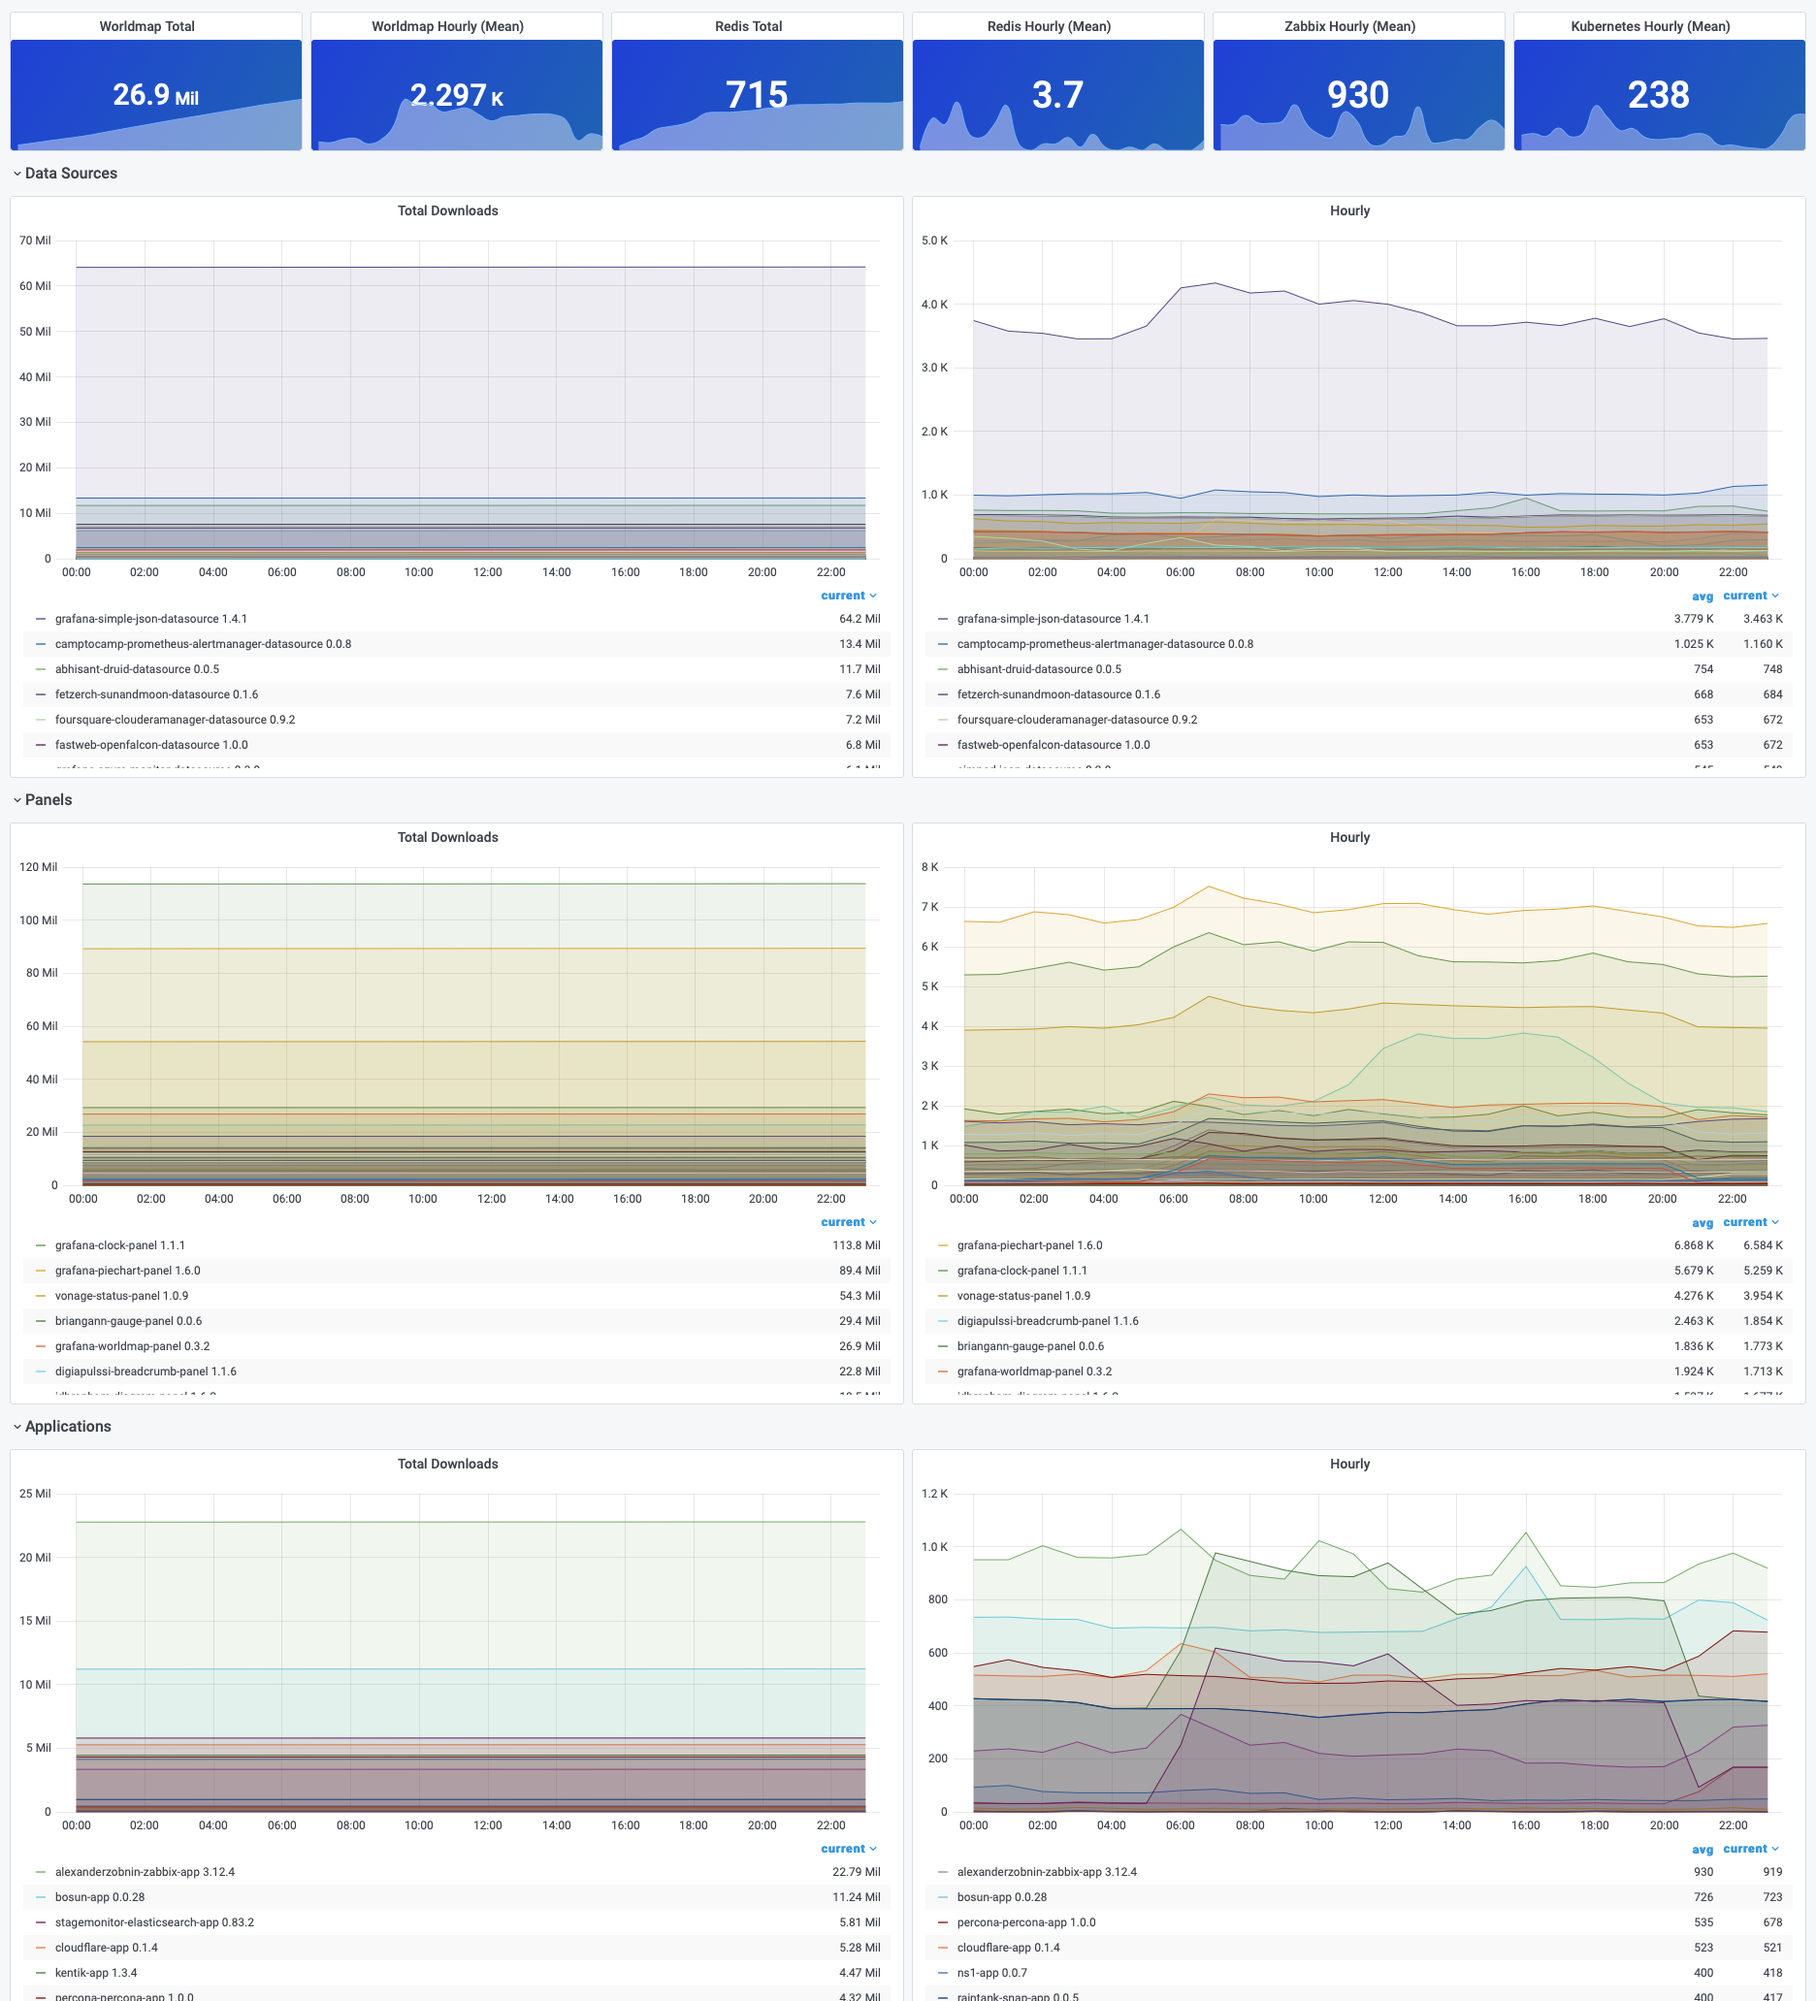
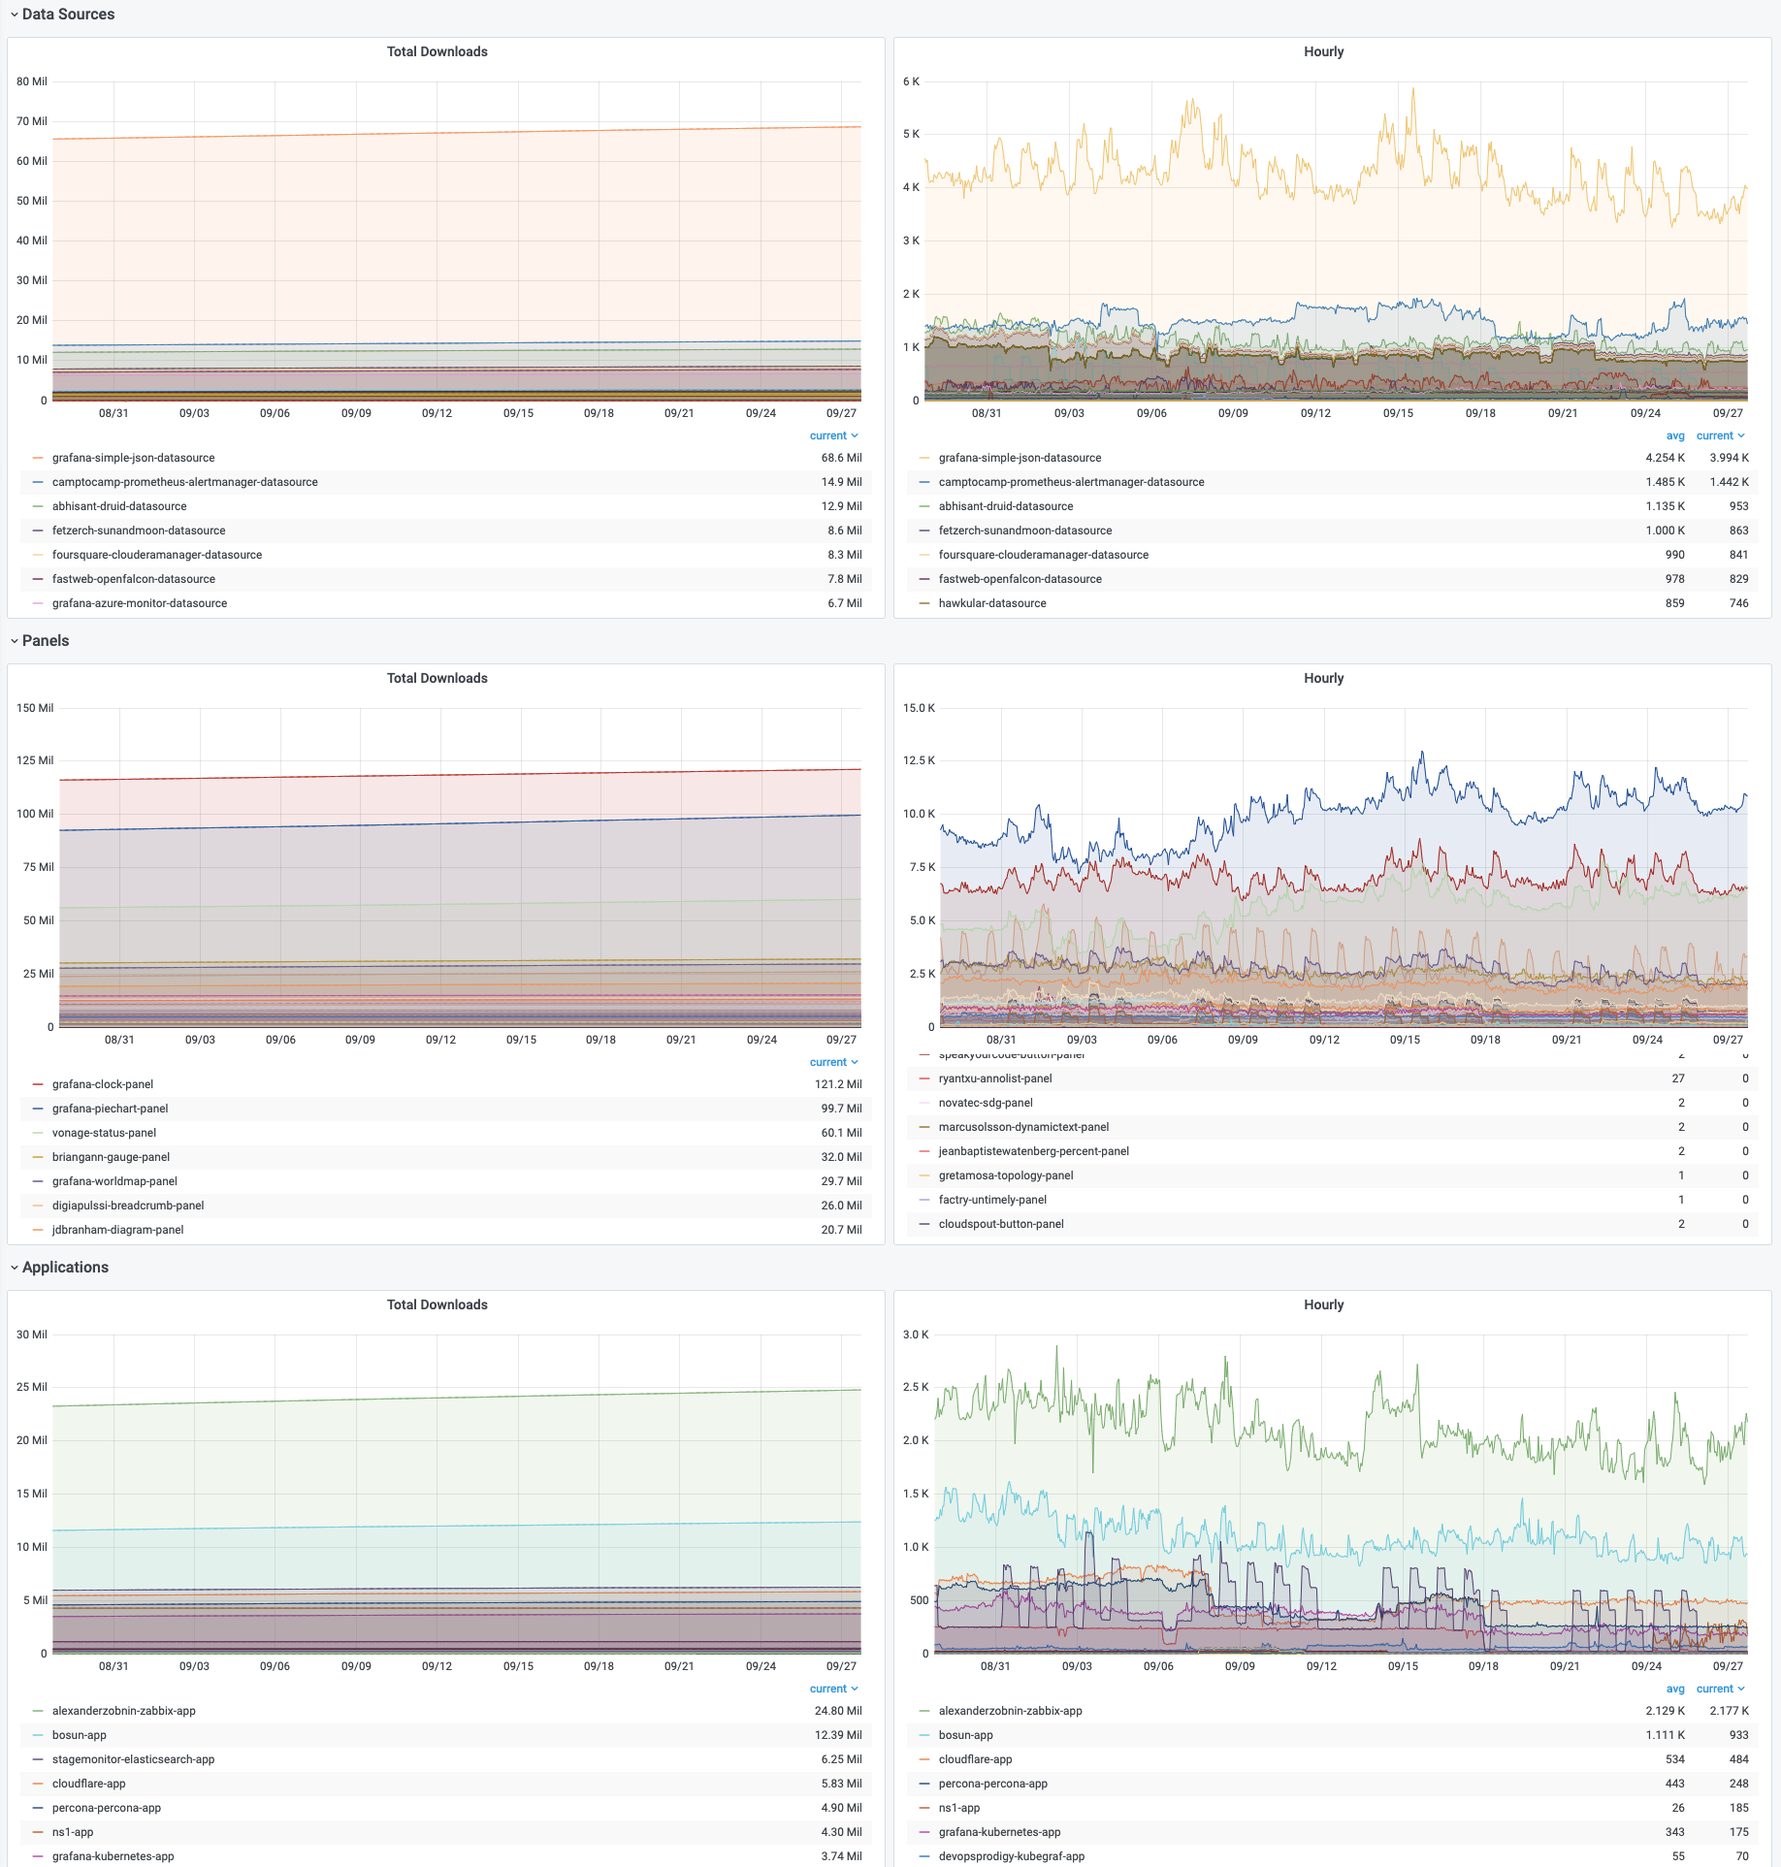
README and image updates (#4)
* Readme and images updates

* Update README.md

diff --git a/README.md b/README.md
@@ -1,30 +1,37 @@
-<h1 align="center">How many times Redis Datasource for Grafana was downloaded?</h1>
+<h1 align="center">How many times Redis Data Source for Grafana was downloaded?</h1>
 
 <div id="badges" align="center">
 
 [![Grafana 7](https://img.shields.io/badge/Grafana-7-blue)](https://www.grafana.com)
 [![RedisTimeSeries](https://img.shields.io/badge/RedisTimeSeries-inspired-yellowgreen)](https://oss.redislabs.com/redistimeseries/)
-[![Grafana-Redis-Datasource](https://img.shields.io/badge/GrafanaRedisDatasource-integrated-yellow)](https://github.com/RedisTimeSeries/grafana-redis-datasource)
+[![Grafana-Redis-Datasource](https://img.shields.io/badge/GrafanaRedisDatasource-powered-red)](https://github.com/RedisTimeSeries/grafana-redis-datasource)
 
 </div>
 
+Earlier this month, Redis Labs released the new [Redis Data Source](https://grafana.com/grafana/plugins/redis-datasource) for Grafana plug-in, which connects the widely used open source application monitoring tool to Redis. To give you an idea of how it all works, let’s take a look at a self-referential example: using the plug-in to see how many times it has been downloaded over time. (The Grafana plug-in repository itself does not provide such statistics out of the box.)
+
 ![Stats](https://github.com/mikhailredis/grafana-plugin-stats/blob/master/images/redis-datasource-stats.png)
 
-[Redis Datasource](https://github.com/RedisTimeSeries/grafana-redis-datasource) for Grafana was published 10 days ago and I want to see how many times it was downloaded over time. Unfortunately, the Grafana plugin repository does not provide such statistics out of the box.
+# What is the Redis Data Source for Grafana?
 
-Please read full LinkedIn Article "[How many times Redis Datasource for Grafana was downloaded?](https://www.linkedin.com/pulse/how-many-times-redis-datasource-grafana-downloaded-mikhail-volkov)" to learn more about the project.
+If you’re not familiar with Grafana, it’s a very popular tool used to build dashboards to monitor applications, infrastructures, and software components. The Redis Data Source for Grafana is a plug-in that allows users to connect to the Redis database and build dashboards in Grafana to easily monitor Redis data. It provides an out-of-the-box predefined dashboard, but also lets you build customized dashboards tuned to your specific needs.
 
-## Requirements
+# Learn more
+
+- Redis Labs blog post "[How to Use the New Redis Data Source for Grafana Plug-in](https://redislabs.com/blog/how-to-use-the-new-redis-data-source-for-grafana-plug-in/)"
+- LinkedIn Article "[How many times Redis Data Source for Grafana was downloaded?](https://www.linkedin.com/pulse/how-many-times-redis-datasource-grafana-downloaded-mikhail-volkov)".
+
+# Requirements
 
 - [Docker](https://docker.com) to start Redis and Grafana.
 - [Node.js](https://nodejs.org) to run scripts.
 
-## Datasource configuration
+# Data Source configuration
 
 ![Stats](https://github.com/mikhailredis/grafana-plugin-stats/blob/master/images/redis-datasource.png)
 
-## Grafana Plugins statistics
+# Grafana Plugins statistics
 
-Script `src/global-stats.ts` can retrieve and store statistics for all Grafana plugins in [RedisTimeSeries](https://oss.redislabs.com/redistimeseries/) which displayed on Global dashboard.
+Script `src/global-stats.ts` can retrieve and store statistics for all Grafana plugins using [RedisTimeSeries](https://oss.redislabs.com/redistimeseries/). Dashboards to display the day are in `Dashboard/` folder.
 
 ![Grafana Plugins](https://github.com/mikhailredis/grafana-plugin-stats/blob/master/images/grafana-plugins.png)
